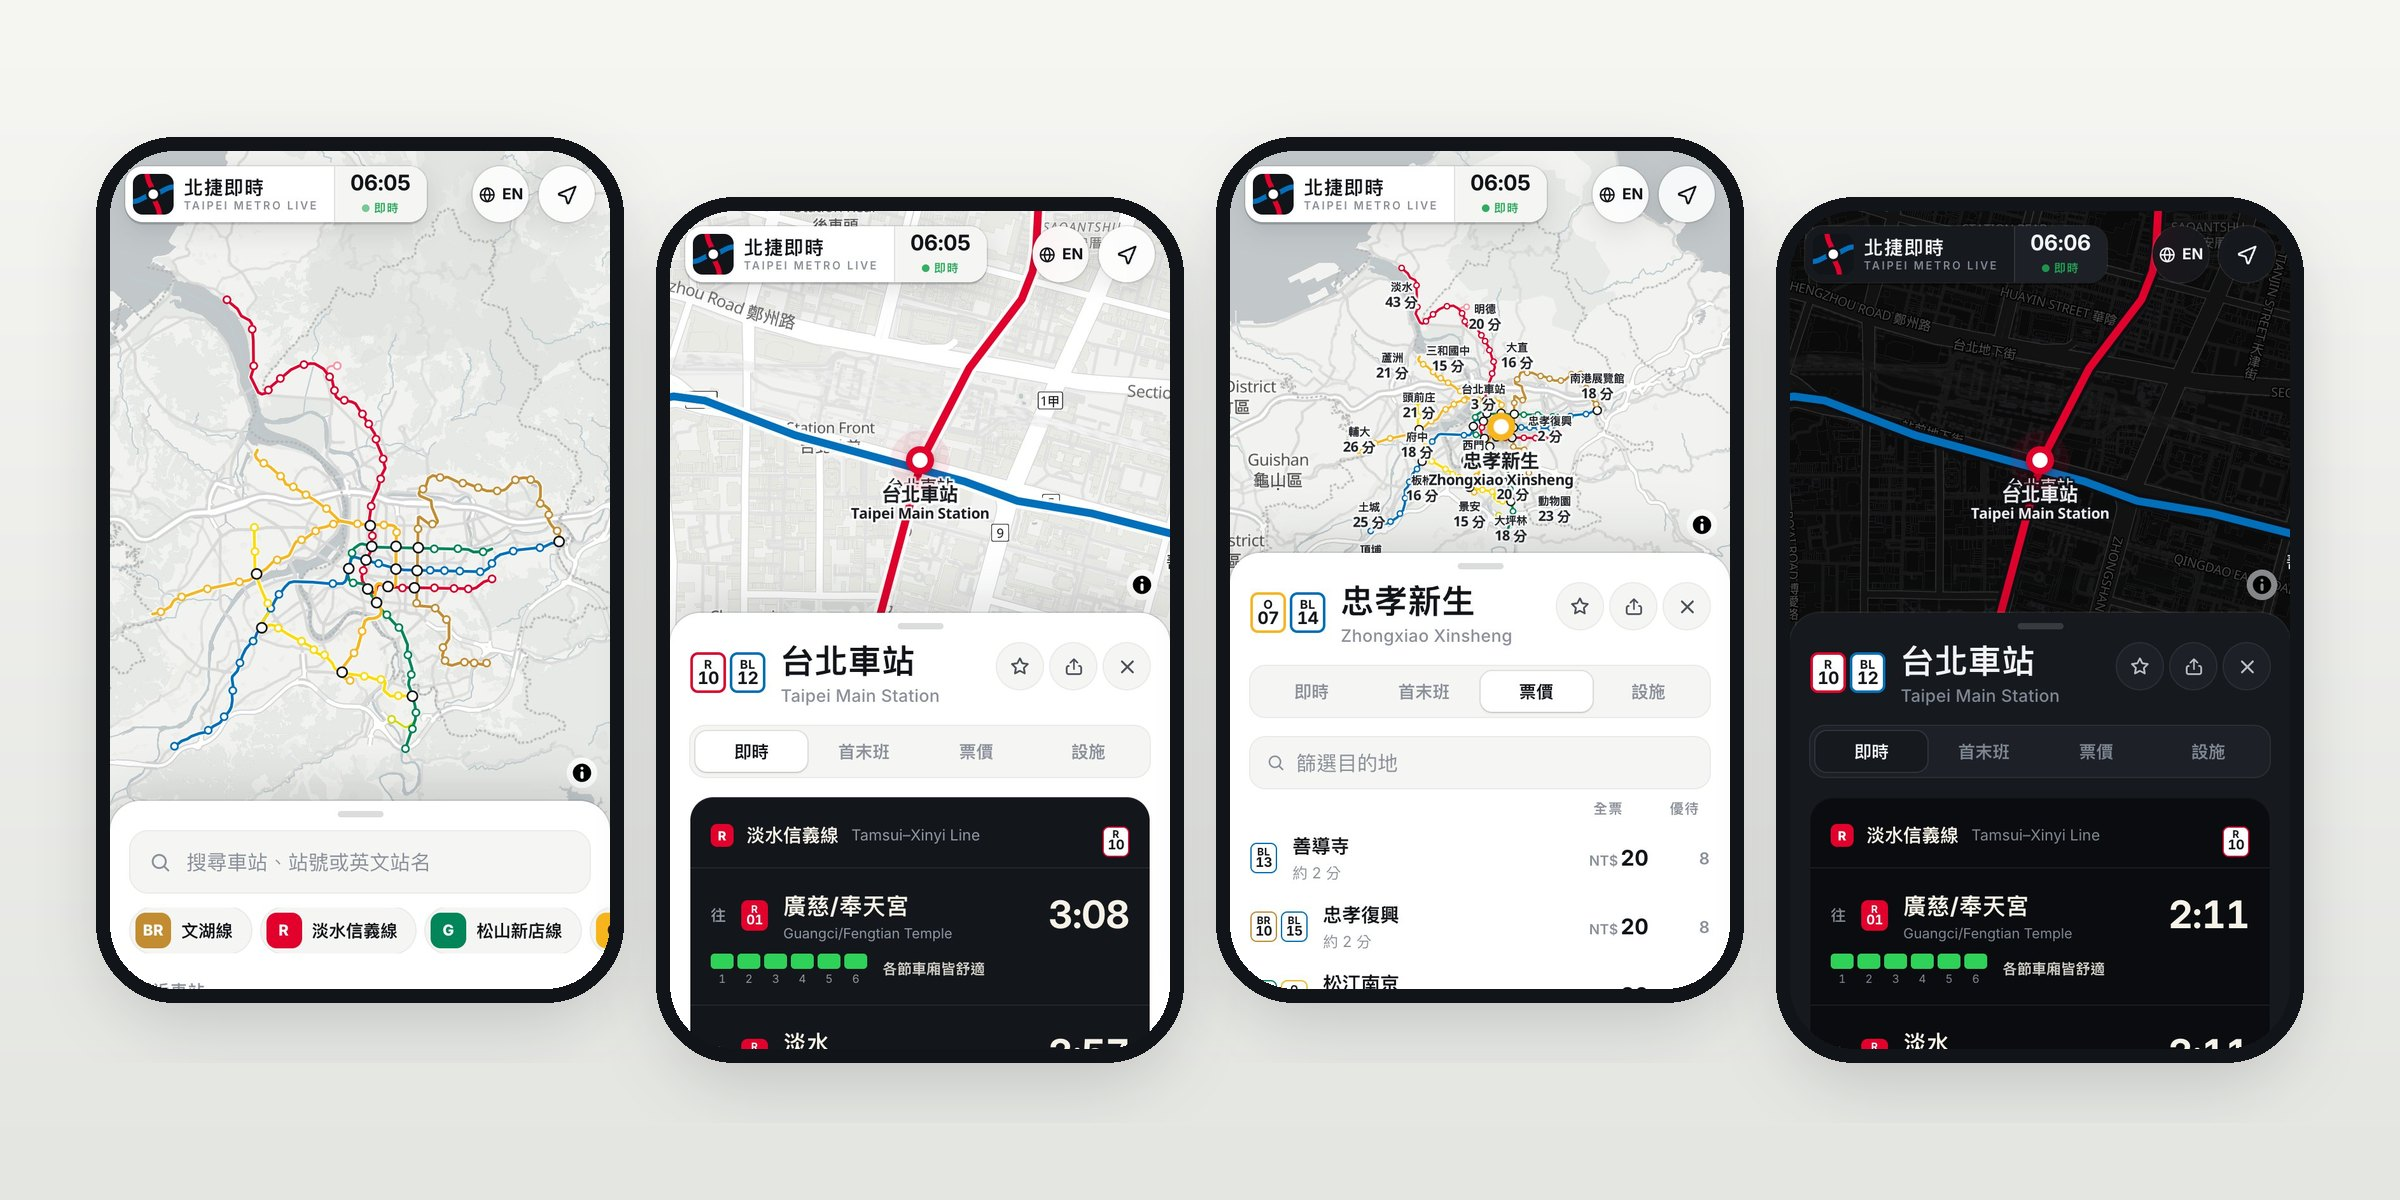
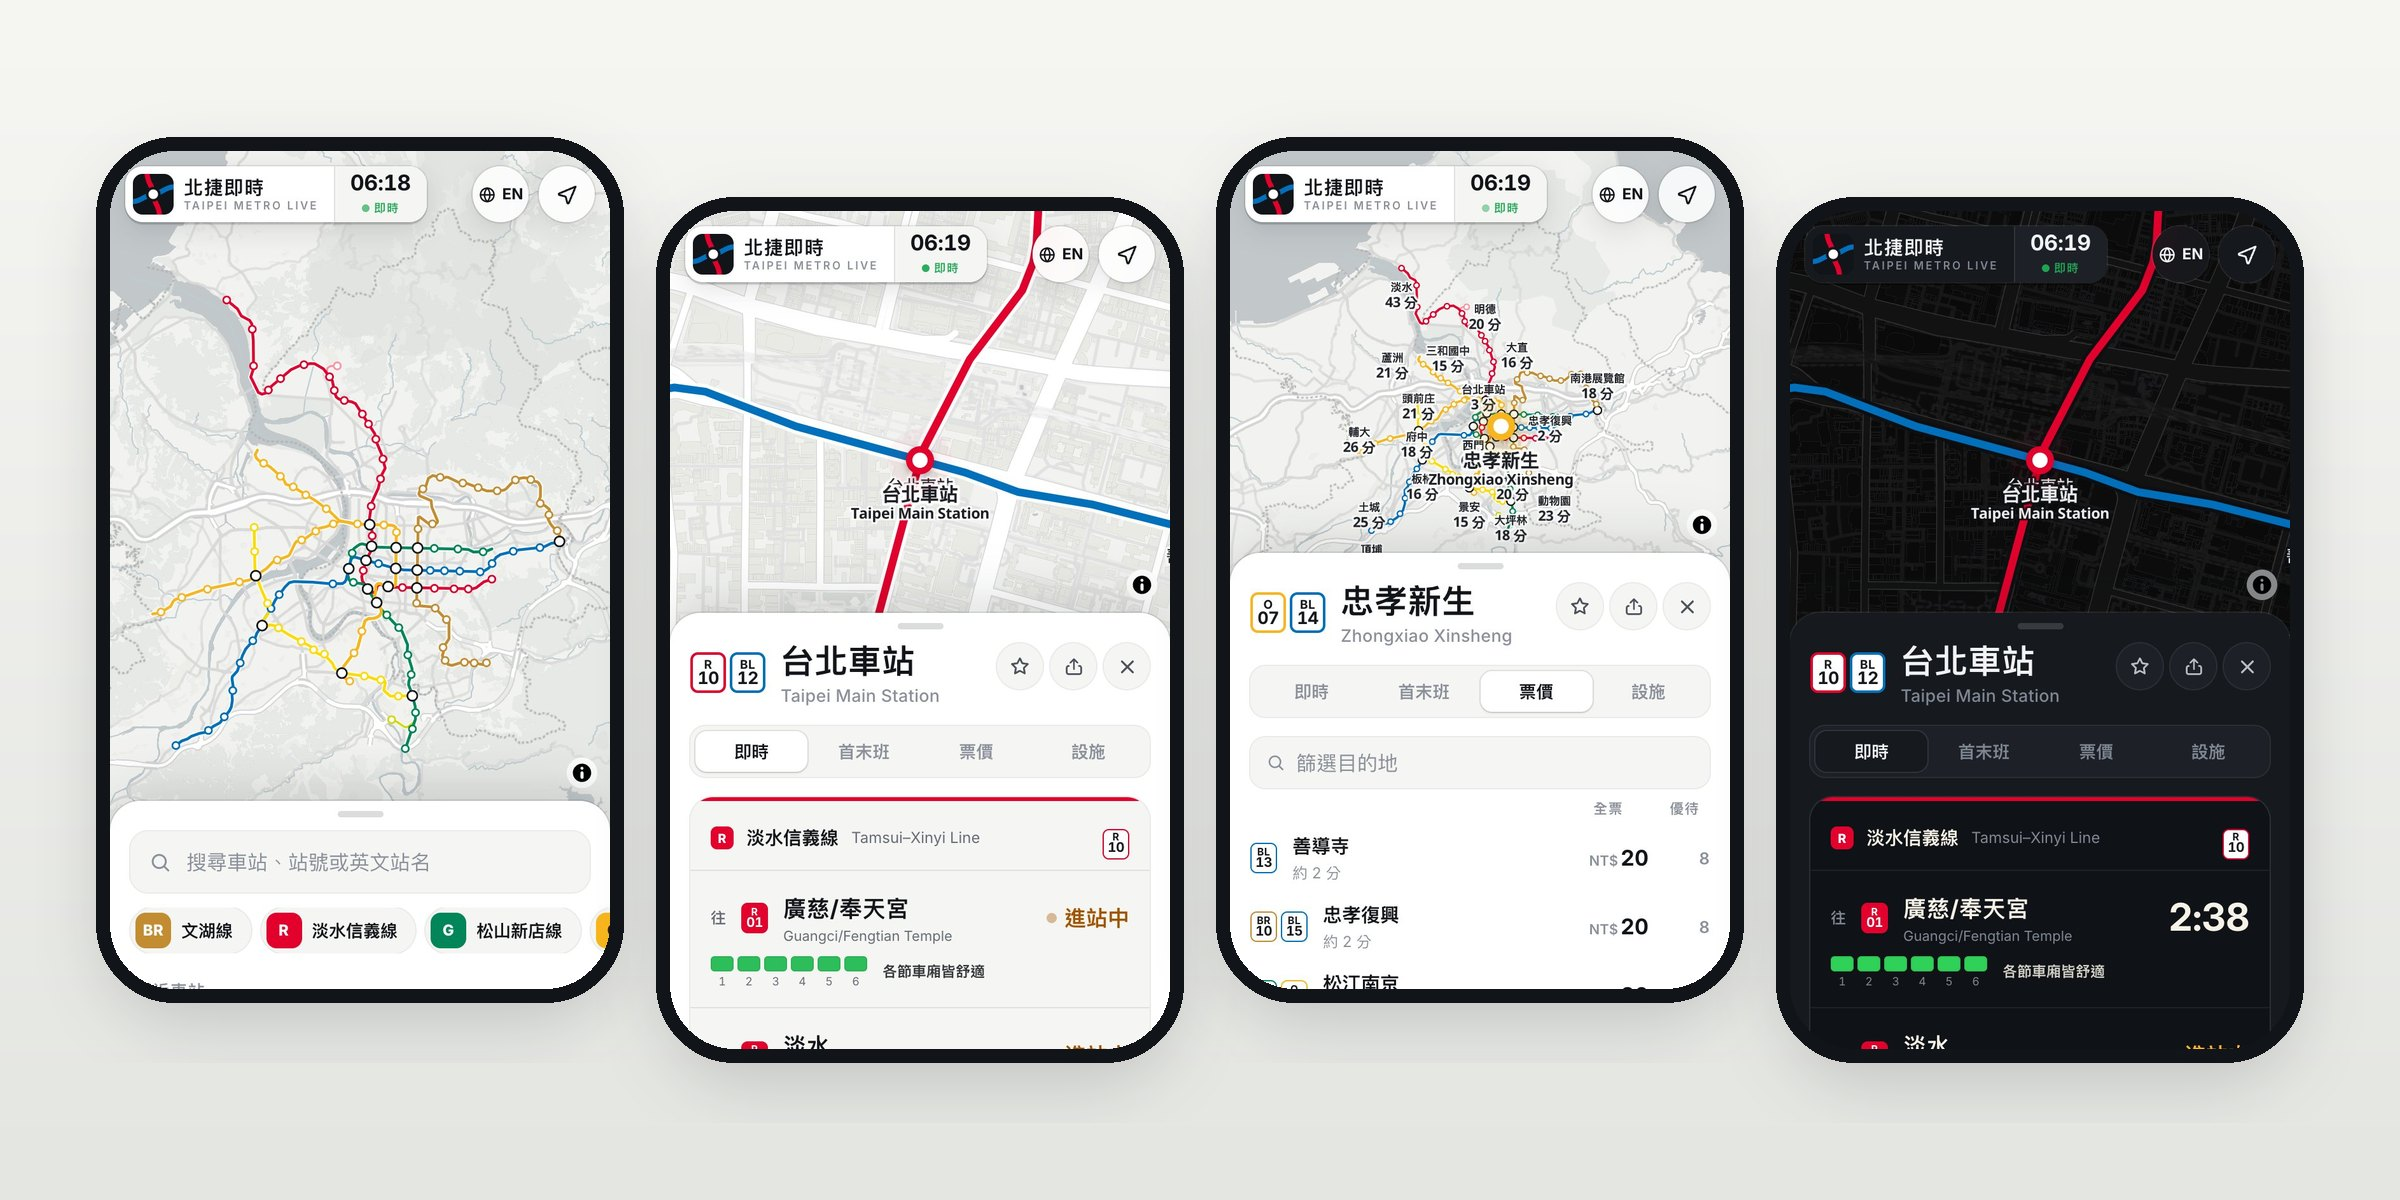
docs(readme): refresh screenshots for the light board and cleaner map

diff --git a/README.md b/README.md
@@ -22,7 +22,7 @@ Live arrivals, car crowding, first/last trains, fares and station facilities for
 | **Travel-time map** | Open **票價** and the map relabels every station with minutes from where you are, next to adult and concession fares for all 118 destinations. |
 | **First & last trains** | Weekday first/last departures per direction, with a `末班車 23 分後` warning in the last 90 minutes of service. |
 | **Station details** | Restrooms, information desks, lockers and bicycle rules, split by line at transfer stations. Platform-sign plates show the previous and next station on each line. |
-| **Real track geometry** | Lines are drawn from OpenStreetMap in official colours over a quiet light/dark basemap. Focusing a line fades the rest of the network. |
+| **Real track geometry** | Lines are drawn from OpenStreetMap in official colours over a label-free light/dark basemap, so station names are the only text on the map. Station dots sit on the track, and at the exact crossing for transfers. Focusing a line fades the rest of the network. |
 | **Find anything** | Search by Chinese name, station code (`bl14`) or English (`xinsheng`), browse line strips with branches, find the nearest stations with walking times, pin favourites. |
 | **Built for phones** | Three-stop draggable sheet with velocity snapping, safe-area aware, installable PWA, deep links for every station, tab and line (`/station/R10/fares`, `/line/O`). Floating side panel on desktop. |
 | **Two languages, two themes** | 中文 / English in one tap; light and dark follow the system. |
@@ -53,9 +53,9 @@ quality bar. What carried over:
 - **Official station plates.** Stacked line letters over the number, white with a line-colour border, and filled for
   termini. A filled destination badge means the train runs the full line; outlined means a short-turn, the same
   convention 台北捷運Go uses.
-- **Signage, not dashboards.** The arrivals card borrows from platform displays (dark board, warm white numerals,
-  amber for arriving). The brand plate and adjacent-station strips borrow from station name boards, an idea
-  軌島 does beautifully with its enamel signs.
+- **Signage, not dashboards.** The arrivals card borrows its structure from platform displays (big tabular
+  numerals, amber for arriving) while following the light/dark theme. The brand plate and adjacent-station strips
+  borrow from station name boards, an idea 軌島 does beautifully with its enamel signs.
 - **Neutral chrome.** Line colours are the only saturated hues. Tokens live in `frontend/src/index.css`, and the dark
   theme is a full token swap rather than an inversion.
 - **Crowding in the row.** Crowding sits in the arrival row instead of behind an extra tap (from 台北捷運倒數), and the
